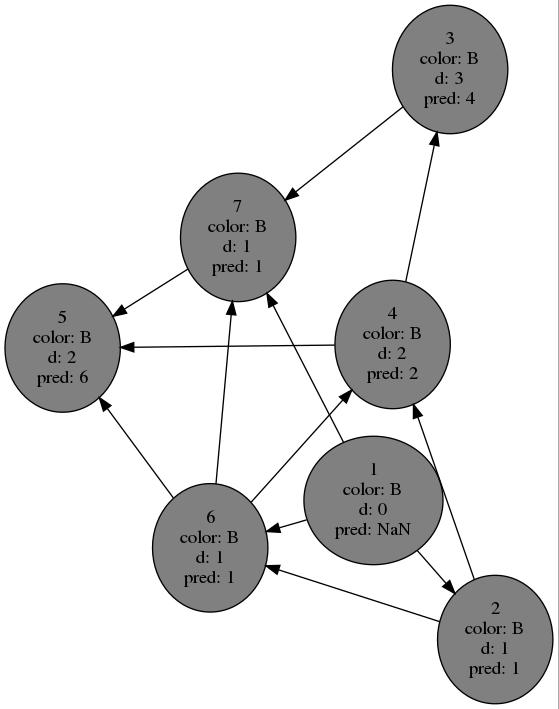
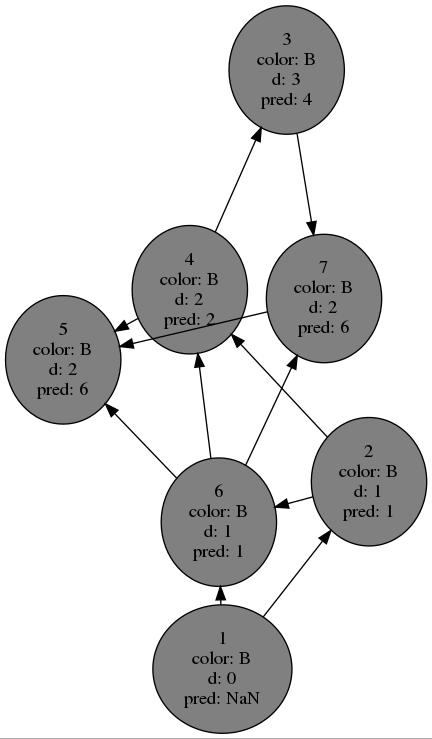
Poslednji kolokvijum

diff --git a/PoslednjiKol/pr94/BFSSugg.m b/PoslednjiKol/pr94/BFSSugg.m
@@ -1,0 +1,76 @@
+% BFSSugg
+
+function suggestions = BFSSugg(G, ime, prezime)
+  
+  suggestions=[];
+  s=NaN;
+  
+  for i=1:length(G.V)
+    
+    if strcmp(G.V(i).ime, ime) && strcmp(G.V(i).prezime, prezime)
+      
+      s=i; break;
+      
+    endif
+    
+  endfor
+  
+  if isnan(s)
+    
+    disp("Ne postoji taj korisnik");
+    
+  else
+    
+    disp("Id korisnika je:");
+    disp(s);
+    
+  endif
+  
+  v=1:length(G.AdjMatrix);
+  
+  for u=v(v~=s)
+    
+    G.V(u).color='W';
+    G.V(u).d=inf;
+    G.V(u).pred=NaN;
+    
+  endfor
+  
+  G.V(s).color='W';
+  G.V(s).d=0;
+  G.V(s).pred=NaN;
+  
+  Q=[];
+  Q=[Q s];
+  
+  while ~isempty(Q)
+    
+    u=Q(1);
+    Q(1)=[];
+    
+    
+    if G.V(u).d<2
+    
+      for v=find(G.AdjMatrix(u, :))
+        
+          if G.V(v).color=='W'
+          
+            G.V(v).color='G';
+            G.V(v).pred=u;
+            G.V(v).d=G.V(u).d+1;
+            Q=[Q v];
+          
+          endif
+      endfor
+    endif  
+    if G.V(u).d==2
+        
+        suggestions=[suggestions G.V(u)];
+        
+    endif
+    
+    G.V(u).color='B';
+    
+  endwhile
+  
+endfunction

diff --git a/PoslednjiKol/MuzkoZensko/Friends.m b/PoslednjiKol/MuzkoZensko/Friends.m
@@ -1,0 +1,55 @@
+% Friends
+
+function G = Friends(G)
+  
+  ostrvo=0;
+  global time;
+  v=1:length(G.AdjMatrix);
+  
+  for u=v
+    
+    G.V(u).color='W';
+    G.V(u).pred=NaN;
+    
+  endfor
+  
+  time=0;
+  
+  for u=v
+    
+    if G.V(u).color == 'W' && G.V(u).pol=='Z'
+      
+      ostrvo++;
+      G=DFS_Visit(G,u,ostrvo);
+      
+    endif
+    
+  endfor
+  
+endfunction
+
+function G= DFS_Visit(G,u,ostrvo)
+  
+  G.V(u).grupa=ostrvo;
+  global time;
+  time=time+1;
+  
+  G.V(u).color='G';
+  G.V(u).d=time;
+  
+  for v=find(G.AdjMatrix(u, :))
+    
+    if G.V(v).color=='W' && G.V(v).pol=='Z'
+      
+      G.V(v).pred=u;
+      G=DFS_Visit(G,v,ostrvo);
+      
+    endif
+    
+  endfor
+  
+  G.V(u).color='B';
+  time=time+1;
+  G.V(u).finish=time;
+  
+endfunction

diff --git a/PoslednjiKol/pr94/skripta.m b/PoslednjiKol/pr94/skripta.m
@@ -1,0 +1,28 @@
+% pozivprimer94.m
+
+clear;
+clc;
+
+G.AdjMatrix = [
+  0 1 0 0 0 1 1;
+  0 1 0 0 0 1 0;
+  0 0 1 0 0 0 1;
+  0 0 1 0 1 0 0;
+  0 0 0 0 0 0 0;
+  1 0 0 1 1 0 1;
+  0 0 0 0 1 0 0
+];
+
+imena = {"Milan";"Filip";"Marko";"Milos";"Milan";"Dusan";"Goran";"Marko";"Veljko";"Milan"};
+prezimena = {"Borjan"; "Stojkovic";"Gobeljic";"Degenek";"Rodic";"Jovancic";"Causic";"Marin";"Simic";"Pavkov"};
+
+for i = 1:length(G.AdjMatrix)
+ G.V(i).ime = imena{i};
+ G.V(i).prezime = prezimena{i};
+end
+
+ime = 'Dusan';
+prezime = 'Jovancic';
+
+sugg=BFSSugg(G,ime,prezime);
+sugg.ime

diff --git a/PoslednjiKol/Vezba1/skripta.m b/PoslednjiKol/Vezba1/skripta.m
@@ -3,7 +3,7 @@
 clc;
 clear;
 G.AdjMatrix = [
-0 1 0 0 0 1 1;
+0 1 0 0 0 1 0;
 0 0 0 1 0 1 0;
 0 0 0 0 0 0 1;
 0 0 1 0 1 0 0;
@@ -13,9 +13,3 @@ G.AdjMatrix = [
 s = 1;
 Gp = BFS(G, s); %BFS vraca pretrazen graf
 plotGraph(Gp);
-
-putanja=getPath(Gp,s,5);
-
-Gd = DFS(G, s);
-%plotGraph(Gd);
-putanja2=getPath(Gd,s,5);

diff --git a/PoslednjiKol/MuzkoZensko/createSocialNetwork.m b/PoslednjiKol/MuzkoZensko/createSocialNetwork.m
@@ -19,5 +19,5 @@ t = triu(rand(i)>0.96, 1);
 G.AdjMatrix =  t + t';
 clear people t tline C ans fid i
 
-Gp = zadatak94(G);
+Gp = Friends(G);
 plotGraph(Gp);
